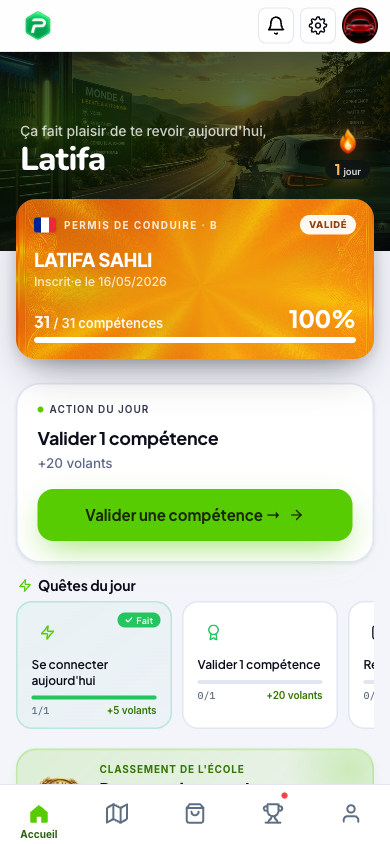
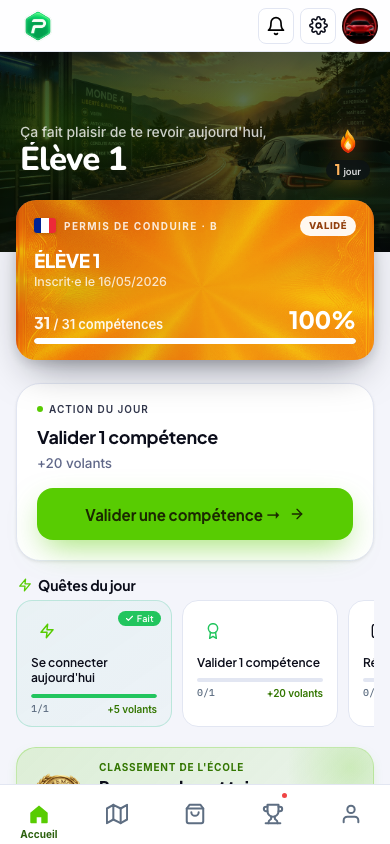
feat(landing): polish hero + showcase (H1 blanc, onglets glass, mascottes, noms anonymisés)
- Hero : nouveau H1 « Passer le permis en jouant n'a jamais été aussi simple » tout blanc
  (suppression du mot en dégradé), taille réduite + text-wrap balance
- Hero : la carte « Streak actif » remontée pour ne plus chevaucher la mascotte (desktop + mobile)
- Showcase : onglets « Côté élève / Côté moniteur » en premium glass (blur + lifted pill)
- Showcase : mascotte qui dépasse en bas de chaque téléphone (respect prefers-reduced-motion)
- Captures re-générées avec noms d'élèves anonymisés en « Élève 1/2/3 » (livret, roster, ligue, accueil)

diff --git a/permigo-game/src/pages/public/landing.js b/permigo-game/src/pages/public/landing.js
@@ -48,8 +48,7 @@ export function mount(root) {
             Pour moniteurs indépendants · Bêta
           </div>
           <h1 class="lp-h1">
-            Ton app de permis.<br>
-            À <em class="lp-h1-em">ton</em> nom.
+            Passer le permis en jouant n'a jamais été aussi simple.
           </h1>
           <p class="lp-lead">Tes élèves révisent entre les leçons, progressent plus vite, et tu prouves tes résultats. Ton outil, ta marque — sans dépendre d'une plateforme.</p>
           <div class="lp-hero-cta">
@@ -109,21 +108,21 @@ export function mount(root) {
       <div class="lp-show-panel" data-panel="eleve">
         <div class="lp-show-strip">
           <figure class="lp-show-card">
-            <div class="lp-show-phone"><img src="/showcase/eleve-accueil.png" alt="Accueil élève : carte de permis, quêtes du jour, streak" loading="lazy" width="390" height="844" /></div>
+            <div class="lp-show-phonewrap"><div class="lp-show-phone"><img src="/showcase/eleve-accueil.png" alt="Accueil élève : carte de permis, quêtes du jour, streak" loading="lazy" width="390" height="844" /></div><img class="lp-show-mascot" src="/skins/mascot-hello.png" alt="" aria-hidden="true" loading="lazy" width="58" height="58" /></div>
             <figcaption>
               <div class="lp-show-caphead"><span class="lp-show-step">1</span><strong>Son permis devient un jeu</strong></div>
               <span class="lp-show-desc">Carte de permis, quêtes du jour, streak quotidien : il revient s'entraîner tout seul.</span>
             </figcaption>
           </figure>
           <figure class="lp-show-card">
-            <div class="lp-show-phone"><img src="/showcase/eleve-parcours.png" alt="Parcours REMC gamifié, étape par étape" loading="lazy" width="390" height="844" /></div>
+            <div class="lp-show-phonewrap"><div class="lp-show-phone"><img src="/showcase/eleve-parcours.png" alt="Parcours REMC gamifié, étape par étape" loading="lazy" width="390" height="844" /></div><img class="lp-show-mascot" src="/skins/mascot-hello.png" alt="" aria-hidden="true" loading="lazy" width="58" height="58" /></div>
             <figcaption>
               <div class="lp-show-caphead"><span class="lp-show-step">2</span><strong>Un parcours étape par étape</strong></div>
               <span class="lp-show-desc">Les 31 compétences du REMC en carte d'aventure. Il voit exactement où il en est.</span>
             </figcaption>
           </figure>
           <figure class="lp-show-card">
-            <div class="lp-show-phone"><img src="/showcase/eleve-examens.png" alt="Examens blancs chronométrés et entraînement par thème" loading="lazy" width="390" height="844" /></div>
+            <div class="lp-show-phonewrap"><div class="lp-show-phone"><img src="/showcase/eleve-examens.png" alt="Examens blancs chronométrés et entraînement par thème" loading="lazy" width="390" height="844" /></div><img class="lp-show-mascot" src="/skins/mascot-hello.png" alt="" aria-hidden="true" loading="lazy" width="58" height="58" /></div>
             <figcaption>
               <div class="lp-show-caphead"><span class="lp-show-step">3</span><strong>Il s'entraîne comme le jour J</strong></div>
               <span class="lp-show-desc">Examens blancs chronométrés et quiz par thème. Il arrive prêt à l'examen.</span>
@@ -135,21 +134,21 @@ export function mount(root) {
       <div class="lp-show-panel" data-panel="moniteur" hidden>
         <div class="lp-show-strip">
           <figure class="lp-show-card">
-            <div class="lp-show-phone"><img src="/showcase/ens-valider.png" alt="Vue moniteur : valider une compétence, liste d'élèves" loading="lazy" width="390" height="844" /></div>
+            <div class="lp-show-phonewrap"><div class="lp-show-phone"><img src="/showcase/ens-valider.png" alt="Vue moniteur : valider une compétence, liste d'élèves" loading="lazy" width="390" height="844" /></div><img class="lp-show-mascot" src="/skins/mascot-hello.png" alt="" aria-hidden="true" loading="lazy" width="58" height="58" /></div>
             <figcaption>
               <div class="lp-show-caphead"><span class="lp-show-step">1</span><strong>Tu valides en 2 taps</strong></div>
               <span class="lp-show-desc">Tu ouvres l'élève, tu coches ce qu'il a réussi. Son livret se met à jour tout seul.</span>
             </figcaption>
           </figure>
           <figure class="lp-show-card">
-            <div class="lp-show-phone"><img src="/showcase/ens-livret.png" alt="Livret REMC numérique d'un élève, compétences acquises" loading="lazy" width="390" height="844" /></div>
+            <div class="lp-show-phonewrap"><div class="lp-show-phone"><img src="/showcase/ens-livret.png" alt="Livret REMC numérique d'un élève, compétences acquises" loading="lazy" width="390" height="844" /></div><img class="lp-show-mascot" src="/skins/mascot-hello.png" alt="" aria-hidden="true" loading="lazy" width="58" height="58" /></div>
             <figcaption>
               <div class="lp-show-caphead"><span class="lp-show-step">2</span><strong>Le livret REMC, numérique</strong></div>
               <span class="lp-show-desc">Chaque compétence à jour en temps réel. Fini le papier perdu dans la voiture.</span>
             </figcaption>
           </figure>
           <figure class="lp-show-card">
-            <div class="lp-show-phone"><img src="/showcase/ens-classement.png" alt="Élèves classés par compétences acquises" loading="lazy" width="390" height="844" /></div>
+            <div class="lp-show-phonewrap"><div class="lp-show-phone"><img src="/showcase/ens-classement.png" alt="Élèves classés par compétences acquises" loading="lazy" width="390" height="844" /></div><img class="lp-show-mascot" src="/skins/mascot-hello.png" alt="" aria-hidden="true" loading="lazy" width="58" height="58" /></div>
             <figcaption>
               <div class="lp-show-caphead"><span class="lp-show-step">3</span><strong>Tu vois qui est prêt</strong></div>
               <span class="lp-show-desc">Tes élèves classés par progression. Tu sais d'un coup d'œil qui présenter.</span>
@@ -547,9 +546,9 @@ const STYLE = `<style>
 
   /* Headline */
   .lp-h1 {
-    font: 900 clamp(36px, 9.5vw, 60px)/1.05 'Plus Jakarta Sans', sans-serif;
-    letter-spacing: -.038em; color: #fff;
-    margin: 0 0 22px;
+    font: 900 clamp(30px, 6vw, 46px)/1.1 'Plus Jakarta Sans', sans-serif;
+    letter-spacing: -.03em; color: #fff;
+    margin: 0 0 22px; text-wrap: balance;
   }
   .lp-h1-em {
     font-style: normal; display: inline;
@@ -642,7 +641,7 @@ const STYLE = `<style>
   .lp-fcard-val { font: 700 13px/1.2 'Plus Jakarta Sans', sans-serif; color: #fff; }
   .lp-fcard-sub { font: 500 10px/1 'Inter', sans-serif; color: rgba(255,255,255,.46); margin-top: 2px; }
   .lp-fcard-1 { top: 14%; right: -20px; animation: fc1 5.5s ease-in-out infinite; }
-  .lp-fcard-2 { bottom: 16%; left: -20px; animation: fc2 5.5s ease-in-out 1.4s infinite; }
+  .lp-fcard-2 { top: 40%; left: -20px; animation: fc2 5.5s ease-in-out 1.4s infinite; }
   @keyframes fc1 { 0%,100% { transform: translateY(0); } 50% { transform: translateY(-8px); } }
   @keyframes fc2 { 0%,100% { transform: translateY(0); } 50% { transform: translateY(8px); } }
   @media (prefers-reduced-motion: reduce) { .lp-fcard-1, .lp-fcard-2 { animation: none; } }
@@ -811,7 +810,7 @@ const STYLE = `<style>
     .lp-hero-chips { justify-content: center; }
     .lp-hero-visual { margin-top: 10px; }
     .lp-fcard-1 { right: -8px; top: 8%; }
-    .lp-fcard-2 { left: -8px; bottom: 8%; }
+    .lp-fcard-2 { left: -8px; top: 34%; bottom: auto; }
     .lp-mascot { width: 96px; height: 96px; left: 0; bottom: -10px; }
     .lp-cards3, .lp-steps, .lp-plans, .lp-testicards { grid-template-columns: 1fr; }
     .lp-feat-row { flex-direction: column; }
@@ -824,12 +823,19 @@ const STYLE = `<style>
 
   /* ── Showcase produit (élève / moniteur) ── */
   .lp-show { padding-top: 44px; }
-  .lp-show-tabs { display: flex; width: fit-content; gap: 4px; padding: 5px; margin: 6px auto 32px;
-    border-radius: 999px; background: #f1f2f7; border: 1px solid var(--lp-line); }
+  .lp-show-tabs { display: flex; width: fit-content; gap: 5px; padding: 6px; margin: 6px auto 34px;
+    border-radius: 999px;
+    background: linear-gradient(180deg, rgba(255,255,255,.72), rgba(240,242,248,.6));
+    backdrop-filter: blur(16px) saturate(180%); -webkit-backdrop-filter: blur(16px) saturate(180%);
+    border: 1px solid rgba(255,255,255,.85);
+    box-shadow: 0 12px 34px -14px rgba(11,16,32,.28), inset 0 1px 0 rgba(255,255,255,.9); }
   .lp-show-tab { border: 0; background: transparent; cursor: pointer; border-radius: 999px;
-    padding: 11px 22px; min-height: 44px; font: 700 14.5px/1 'Inter', sans-serif; color: var(--lp-mut);
-    transition: color .2s, background .2s, box-shadow .2s; }
-  .lp-show-tab.is-active { color: var(--lp-ink); background: #fff; box-shadow: 0 2px 8px -2px rgba(11,16,32,.18); }
+    padding: 12px 24px; min-height: 44px; font: 700 14.5px/1 'Inter', sans-serif; color: var(--lp-mut);
+    transition: color .25s, background .25s, box-shadow .25s, transform .1s; }
+  .lp-show-tab:active { transform: translateY(1px); }
+  .lp-show-tab.is-active { color: var(--lp-ink);
+    background: linear-gradient(180deg, #fff, #f3f5fb);
+    box-shadow: 0 6px 16px -6px rgba(11,16,32,.28), inset 0 1px 0 rgba(255,255,255,.95); }
 
   .lp-show-panel[hidden] { display: none; }
   .lp-show-panel { animation: lpShowFade .42s cubic-bezier(.2,.7,.3,1); }
@@ -842,6 +848,11 @@ const STYLE = `<style>
     box-shadow: 0 32px 64px -30px rgba(8,12,28,.62), 0 2px 0 rgba(255,255,255,.08) inset;
     transition: transform .3s cubic-bezier(.2,.7,.3,1), box-shadow .3s; }
   .lp-show-phone img { display: block; width: 100%; height: auto; border-radius: 25px; }
+  .lp-show-phonewrap { position: relative; }
+  .lp-show-mascot { position: absolute; left: -18px; bottom: -14px; z-index: 2;
+    width: 58px; height: 58px; object-fit: contain; pointer-events: none;
+    filter: drop-shadow(0 10px 18px rgba(0,0,0,.32));
+    animation: mascotFloat 4.5s ease-in-out infinite; }
   .lp-show-card figcaption { display: flex; flex-direction: column; gap: 6px; padding: 0 4px; }
   .lp-show-caphead { display: flex; align-items: center; gap: 9px; }
   .lp-show-step { flex: 0 0 auto; display: inline-flex; align-items: center; justify-content: center;
@@ -864,6 +875,7 @@ const STYLE = `<style>
     .lp-show-panel { animation: none; }
     .lp-rev .lp-show-card { opacity: 1; transform: none; transition: none; }
     .lp-show-card:hover .lp-show-phone { transform: none; }
+    .lp-show-mascot { animation: none; }
   }
 
   /* Mobile : filmstrip horizontal scroll-snap */
